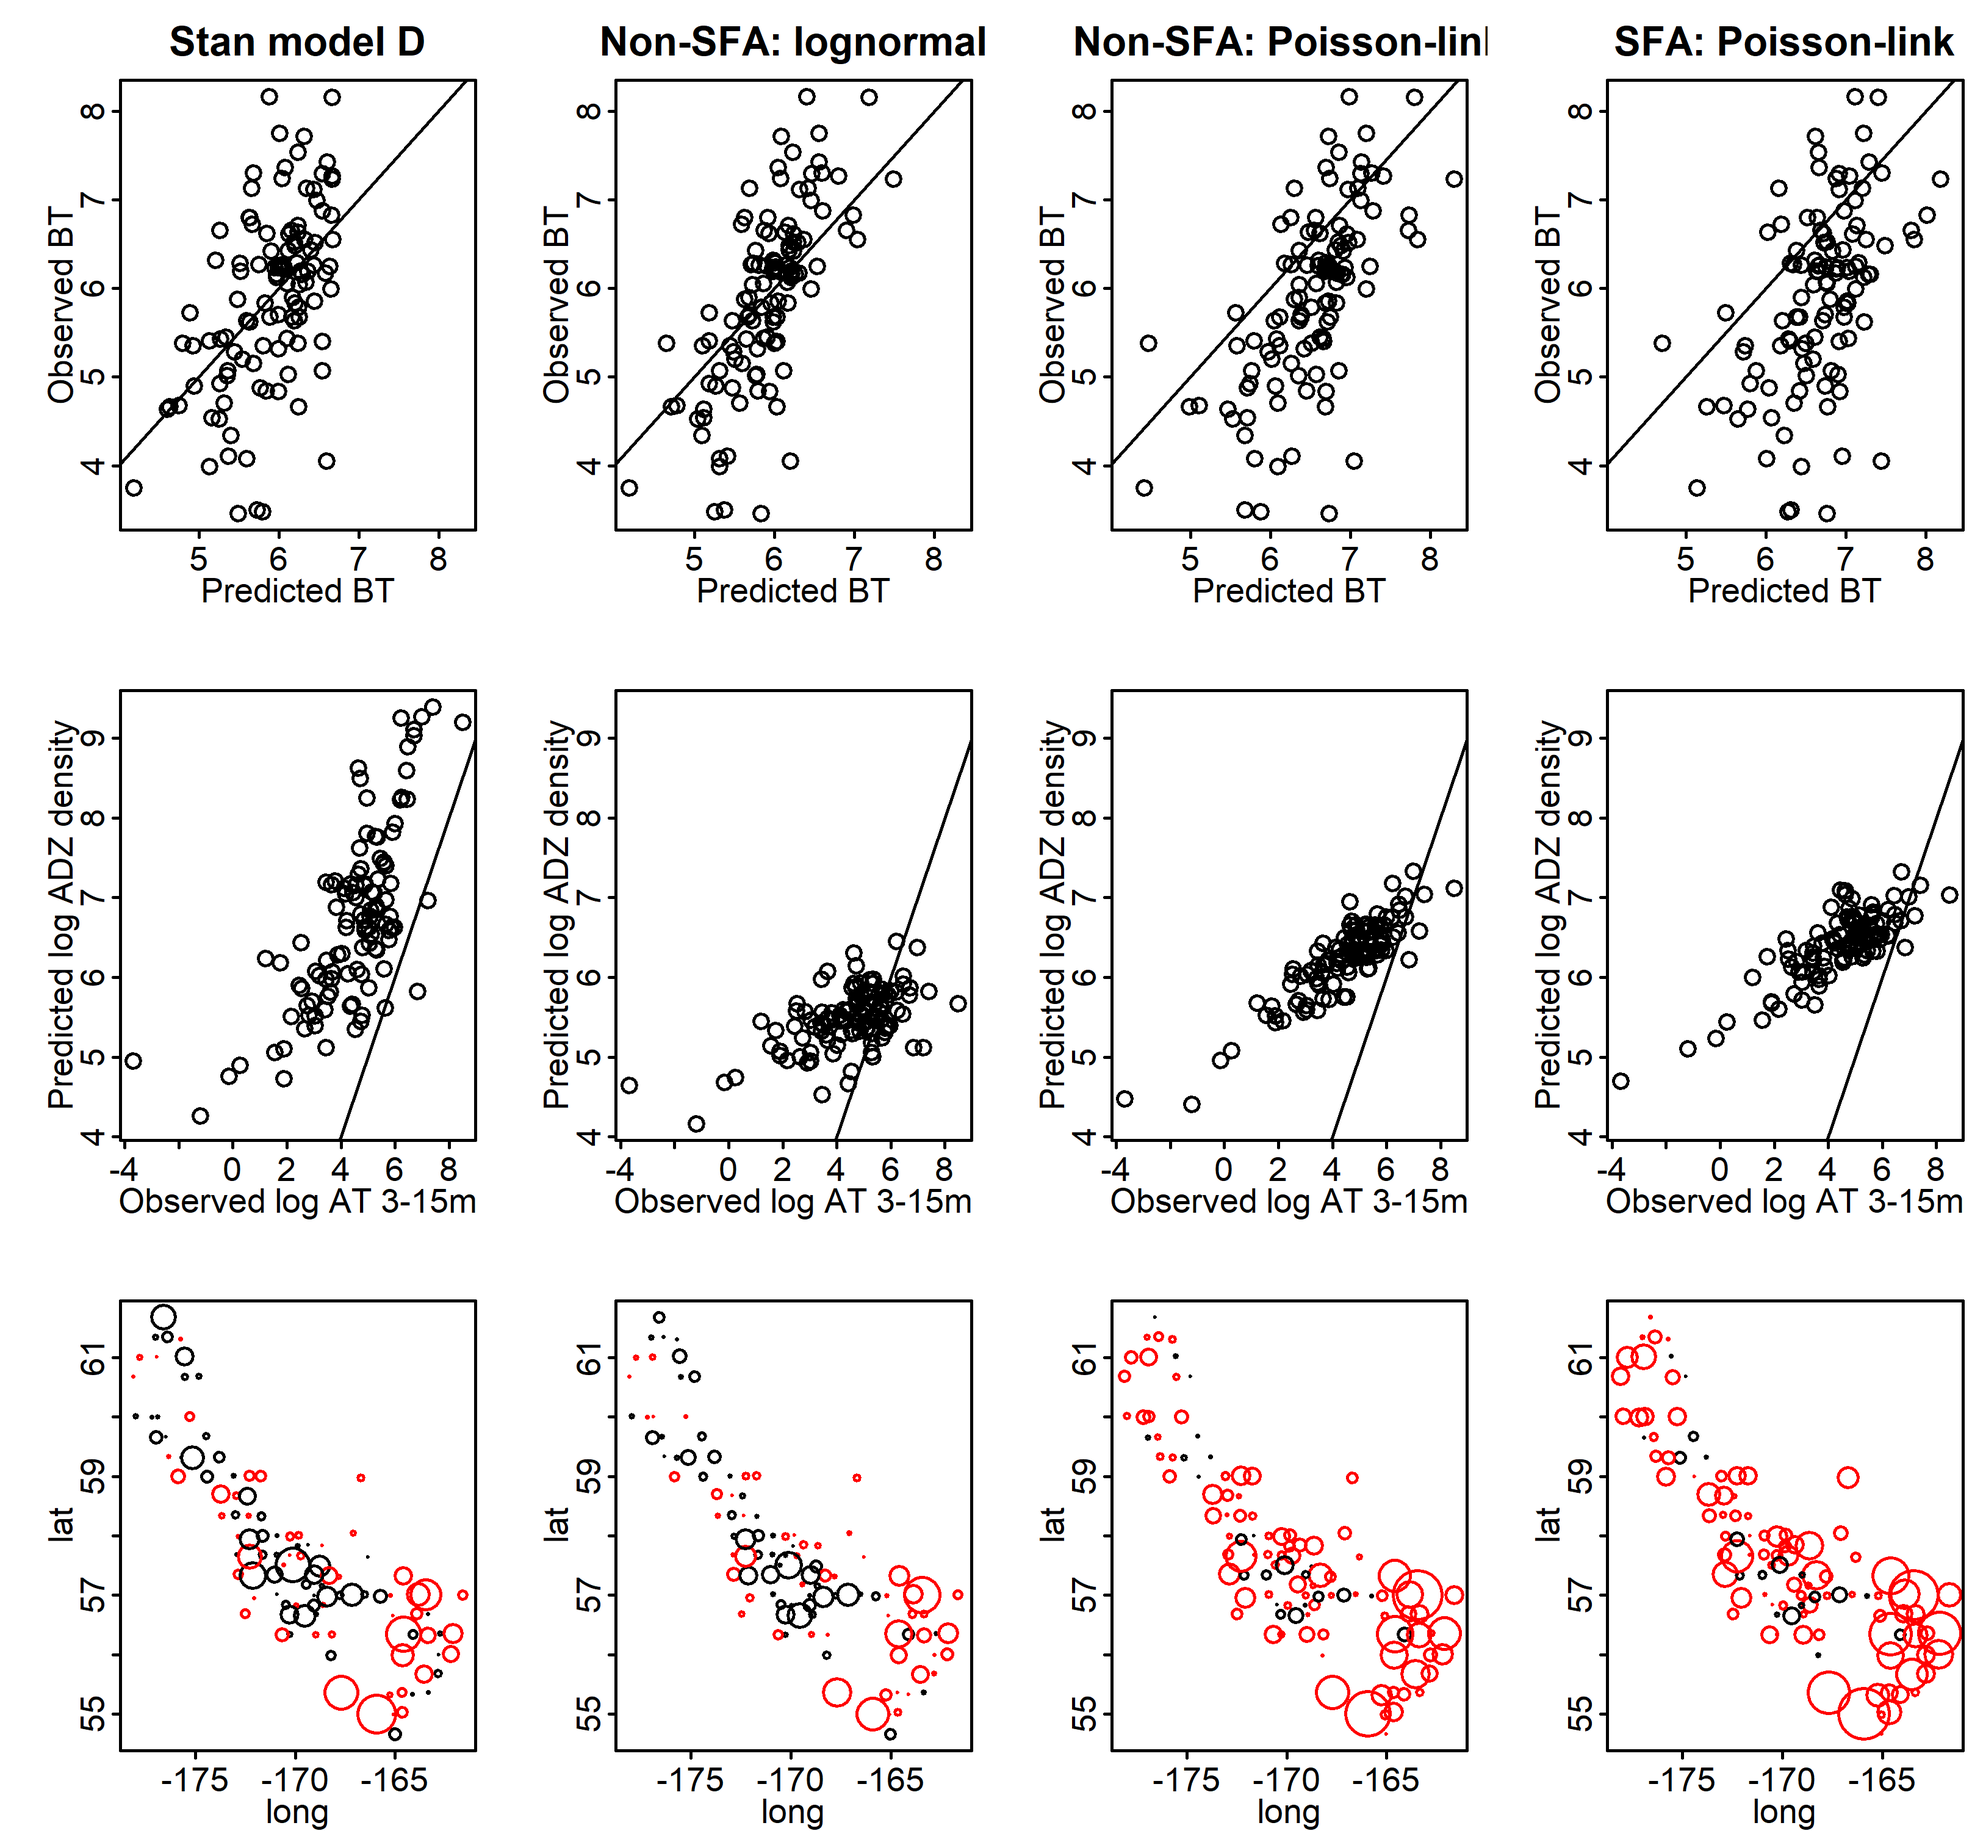
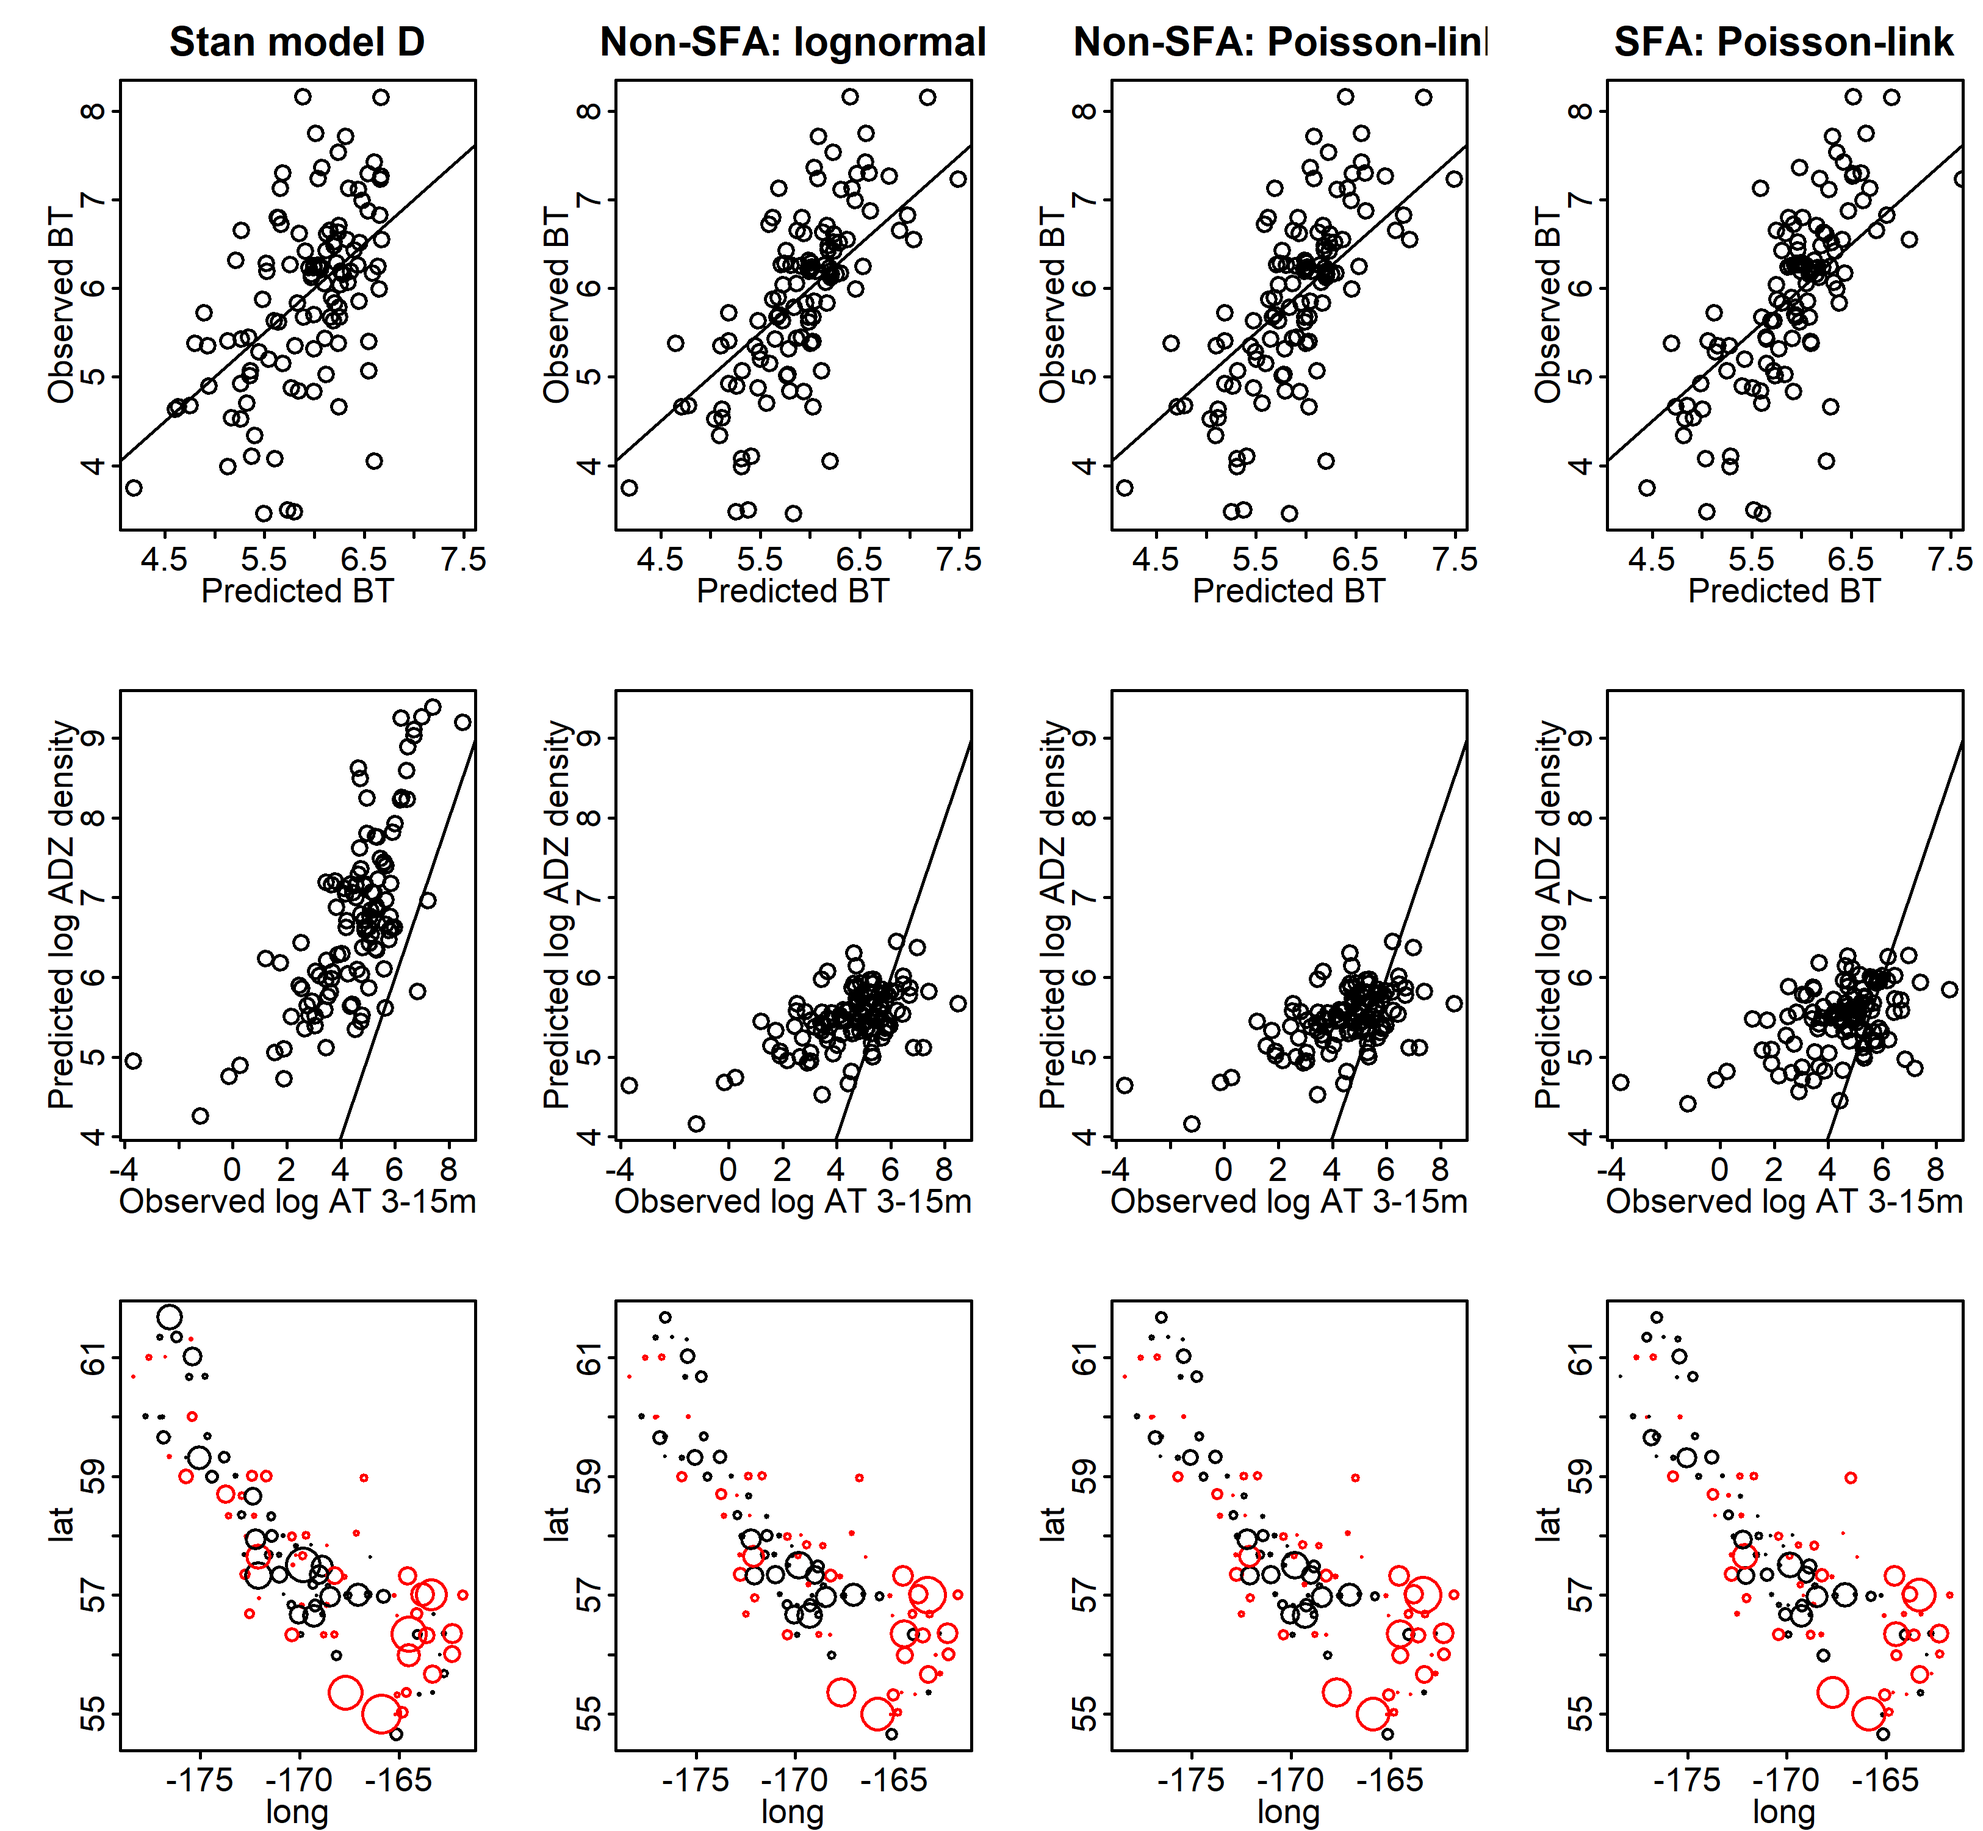
Try to standardize models so theyre comparable

diff --git a/models/factor_analysis_pois.cpp b/models/factor_analysis_pois.cpp
@@ -34,7 +34,7 @@ Type objective_function<Type>::operator() ()
   PARAMETER(logweight); // log weight for Poisson-link
   Type sigma=exp(logsigma);
   Type sig22;
-  sig22=pow(sigma,2)/2;
+  sig22=0;//pow(sigma,2)/2;
   
   using namespace density;
   int n_p = Y_sp.row(0).size();    // n_p is number of species
@@ -104,15 +104,17 @@ Type objective_function<Type>::operator() ()
 	jnll-=log(1-encounter(s,p));
       } else {
 	jnll-=log(encounter(s,p));
-	// jnll-=dlnorm(catches(s,p), log(catchrate(s,p))-pow(sigma,2)/2, sigma, true);
 	if(p==0)
-	  jnll-=dlnorm(Y_sp(s,0), BT_hat(s) -sig22, sigma, true);
+	  // jnll-=dlnorm(Y_sp(s,0), BT_hat(s) -sig22, sigma, true);
+	jnll-=dnorm(Y_sp(s,0), BT_hat(s), sigma, true);
 	if(p==1)
 	  // The AT1 is just the middle strata
-	  jnll-=dlnorm(Y_sp(s,1), logdensity(s,1)-sig22, sigma, true);
+	  //jnll-=dlnorm(Y_sp(s,1), logdensity(s,1)-sig22, sigma, true);
+	  jnll-=dnorm(Y_sp(s,1), logdensity(s,1), sigma, true);
 	if(p==2)
 	  // and AT2 is the last strata
-	  jnll-=dlnorm(Y_sp(s,2), logdensity(s,2)-sig22, sigma, true);
+	  //	  jnll-=dlnorm(Y_sp(s,2), logdensity(s,2)-sig22, sigma, true);
+	  jnll-=dnorm(Y_sp(s,2), logdensity(s,2), sigma, true);
       }
     }
   }

diff --git a/models/spatial_factor_analysis_pois.cpp b/models/spatial_factor_analysis_pois.cpp
@@ -37,7 +37,7 @@ Type objective_function<Type>::operator() ()
 
   Type sigma=exp(logsigma);
   Type sig22;
-  sig22=pow(sigma,2)/2;
+  sig22=0;//pow(sigma,2)/2;
   
   using namespace density;
   int n_p = Y_sp.row(0).size();    // n_p is number of species
@@ -102,15 +102,17 @@ Type objective_function<Type>::operator() ()
 	jnll-=log(1-encounter(s,p));
       } else {
 	jnll-=log(encounter(s,p));
-	// jnll-=dlnorm(catches(s,p), log(catchrate(s,p))-pow(sigma,2)/2, sigma, true);
 	if(p==0)
-	  jnll-=dlnorm(Y_sp(s,0), BT_hat(s) -sig22, sigma, true);
+	  // jnll-=dlnorm(Y_sp(s,0), BT_hat(s) -sig22, sigma, true);
+	jnll-=dnorm(Y_sp(s,0), BT_hat(s), sigma, true);
 	if(p==1)
 	  // The AT1 is just the middle strata
-	  jnll-=dlnorm(Y_sp(s,1), logdensity(s,1)-sig22, sigma, true);
+	  //jnll-=dlnorm(Y_sp(s,1), logdensity(s,1)-sig22, sigma, true);
+	  jnll-=dnorm(Y_sp(s,1), logdensity(s,1), sigma, true);
 	if(p==2)
 	  // and AT2 is the last strata
-	  jnll-=dlnorm(Y_sp(s,2), logdensity(s,2)-sig22, sigma, true);
+	  //	  jnll-=dlnorm(Y_sp(s,2), logdensity(s,2)-sig22, sigma, true);
+	  jnll-=dnorm(Y_sp(s,2), logdensity(s,2), sigma, true);
       }
     }
   }

diff --git a/models/simplified.cpp b/models/simplified.cpp
@@ -34,17 +34,19 @@ Type objective_function<Type>::operator() ()
 
   eta = d2+b_BD*BD;
   eta_c = cb_BD*BD;
-  BSA_hat=1/(1/
-   (q*sum_SA1 +exp(eta)*sum_SA2 + exp(eta_c)*c)+1/a);
+  BSA_hat=
+    log(1/(1/ (q*sum_SA1 +exp(eta)*sum_SA2 + exp(eta_c)*c)+1/a));
   Type sigmasq=exp(2*logSigma);
-  nll=0.5*(ntows*log(2*PI*sigmasq)+
-	   pow(log(BSA)-log(BSA_hat),Type(2)).sum()/sigmasq);
+  // nll=0.5*(ntows*log(2*PI*sigmasq)+
+  // 	   pow(BSA-BSA_hat,Type(2)).sum()/sigmasq);
+  nll= -1*dnorm(BSA, BSA_hat, exp(logSigma), true).sum();
   ADREPORT(a);
   ADREPORT(q);
   ADREPORT(c);
   vector<Type> d1=exp(eta)*sum_SA2 + exp(eta_c)*c;
   REPORT(d1);
   REPORT(BSA_hat);
+  REPORT(nll);
   return(nll);
 }
 
